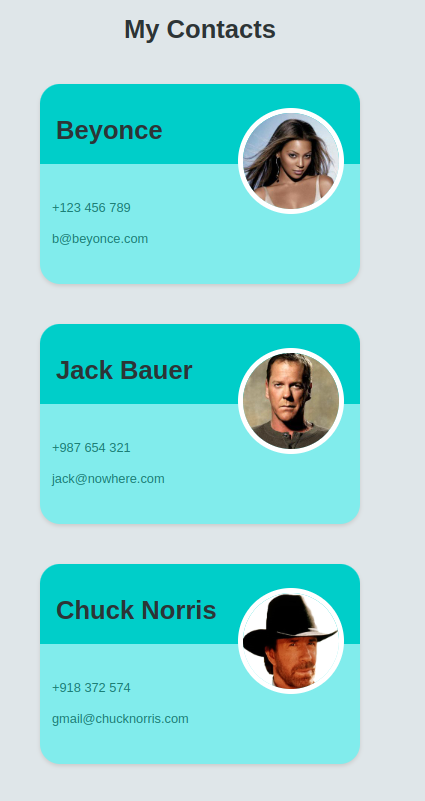
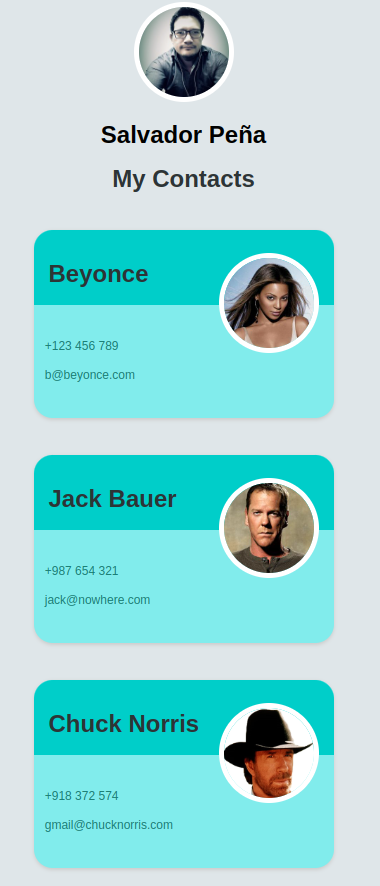
Updating readme

diff --git a/src/components/Card.jsx b/src/components/Card.jsx
@@ -1,15 +1,17 @@
 import React from "react";
+import Avatar from "./Avatar";
+import Details from "./Details";
 
 function Card(props){
     return (
         <div className="card">
             <div className="top">
-                <h2 className="name">{props.name}</h2>
-                <img className="circle-img" src={props.img} alt={props.alt} />
+                <h2 className="name">{props.name}</h2>                
+                <Avatar img = {props.img}/>   
             </div>
             <div className="bottom">
-                <p className="info">{props.tel}</p>
-                <p className="info">{props.email}</p>
+                <Details detailInfo={props.tel} />                
+                <Details detailInfo={props.email} />
             </div>
         </div>
     );

diff --git a/src/App.jsx b/src/App.jsx
@@ -1,9 +1,12 @@
 import "./App.css";
 import ContactList from "./components/ContactList";
+import Avatar from "./components/Avatar";
 
 function App() {
   return (
     <div>
+      <Avatar img="https://media.licdn.com/dms/image/v2/D4E03AQF1209wRgnGog/profile-displayphoto-shrink_200_200/profile-displayphoto-shrink_200_200/0/1731618995424?e=1741824000&v=beta&t=zQ51fPgDBWTaiK89C5SnqUeKDL_6Yu6D5x41IIY9GTk"/>
+      <h1>Salvador Peña</h1>
       <h1 className="heading">My Contacts</h1>
       <ContactList />
     </div>

diff --git a/src/components/Details.jsx b/src/components/Details.jsx
@@ -1,0 +1,11 @@
+import React from "react";
+
+function Details(props){
+    return (
+    <>
+    <p className="info">{props.detailInfo}</p>    
+    </>
+    );
+}
+
+export default Details;

diff --git a/src/components/Avatar.jsx b/src/components/Avatar.jsx
@@ -1,0 +1,7 @@
+import React from "react";
+
+function Avatar(props){
+return <img className="circle-img" src={props.img} />
+}
+
+export default Avatar;
